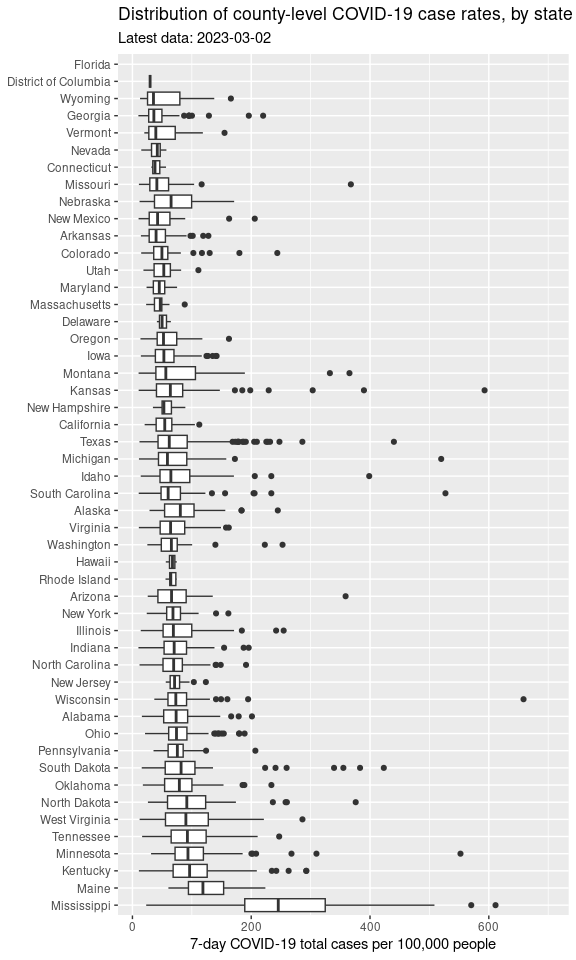
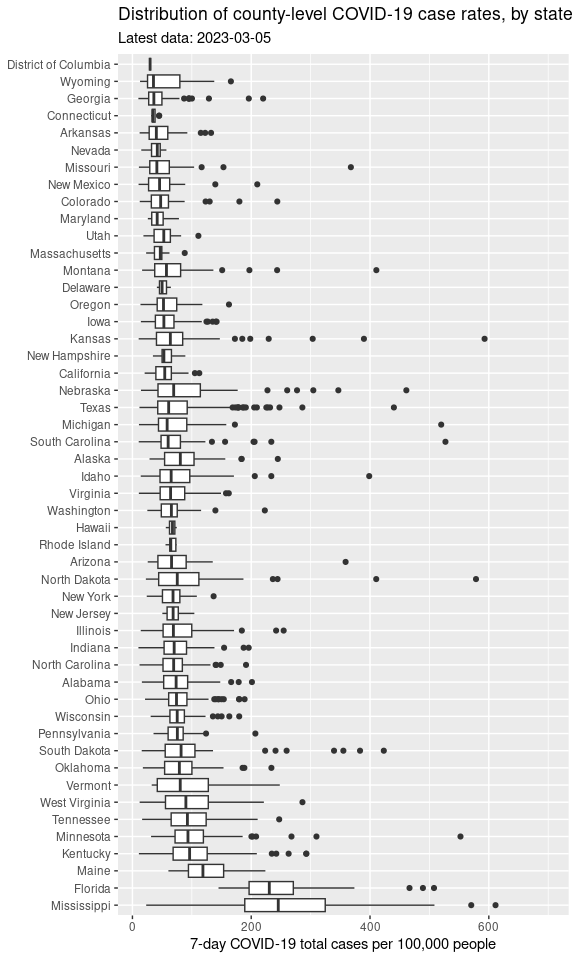
Updated report

diff --git a/README.md b/README.md
@@ -1,7 +1,7 @@
 Minnesota COVID Reports
 ================
 
-Report last run: 2023-03-03 22:58:01
+Report last run: 2023-03-06 05:41:51
 
 ## Introduction
 
@@ -105,25 +105,25 @@ rate_data %>%
   knitr::kable()
 ```
 
-| county        | state          |    pop | covid_rate |
-|:--------------|:---------------|-------:|-----------:|
-| Loving        | Texas          |    169 |       2367 |
-| Washington    | Mississippi    |  43909 |       1043 |
-| Clark         | Kansas         |   1994 |        802 |
-| Rolette       | North Dakota   |  14176 |        705 |
-| Menominee     | Wisconsin      |   4556 |        658 |
-| Neshoba       | Mississippi    |  29118 |        611 |
-| Rawlins       | Kansas         |   2530 |        593 |
-| Humphreys     | Mississippi    |   8064 |        570 |
-| Traverse      | Minnesota      |   3259 |        552 |
-| Dorchester    | South Carolina | 162809 |        527 |
-| Keweenaw      | Michigan       |   2116 |        520 |
-| Lawrence      | Mississippi    |  12586 |        509 |
-| Madison       | Mississippi    | 106272 |        472 |
-| Walthall      | Mississippi    |  14286 |        469 |
-| Franklin      | Mississippi    |   7713 |        454 |
-| Concho        | Texas          |   2726 |        440 |
-| Warren        | Mississippi    |  45381 |        427 |
-| Marion        | Mississippi    |  24573 |        427 |
-| Oglala Lakota | South Dakota   |  14177 |        423 |
-| Webster       | Mississippi    |   9689 |        413 |
+| county     | state          |     pop | covid_rate |
+|:-----------|:---------------|--------:|-----------:|
+| Loving     | Texas          |     169 |       2367 |
+| Washington | Mississippi    |   43909 |       1043 |
+| Clark      | Kansas         |    1994 |        802 |
+| Menominee  | Wisconsin      |    4556 |        724 |
+| Neshoba    | Mississippi    |   29118 |        611 |
+| Rawlins    | Kansas         |    2530 |        593 |
+| Rolette    | North Dakota   |   14176 |        578 |
+| Humphreys  | Mississippi    |    8064 |        570 |
+| Traverse   | Minnesota      |    3259 |        552 |
+| Dorchester | South Carolina |  162809 |        527 |
+| Keweenaw   | Michigan       |    2116 |        520 |
+| Lawrence   | Mississippi    |   12586 |        509 |
+| Miami-Dade | Florida        | 2716940 |        508 |
+| Jackson    | Florida        |   46414 |        489 |
+| Madison    | Mississippi    |  106272 |        472 |
+| Walthall   | Mississippi    |   14286 |        469 |
+| Gadsden    | Florida        |   45660 |        466 |
+| Hamilton   | Nebraska       |    9324 |        461 |
+| Franklin   | Mississippi    |    7713 |        454 |
+| Concho     | Texas          |    2726 |        440 |
